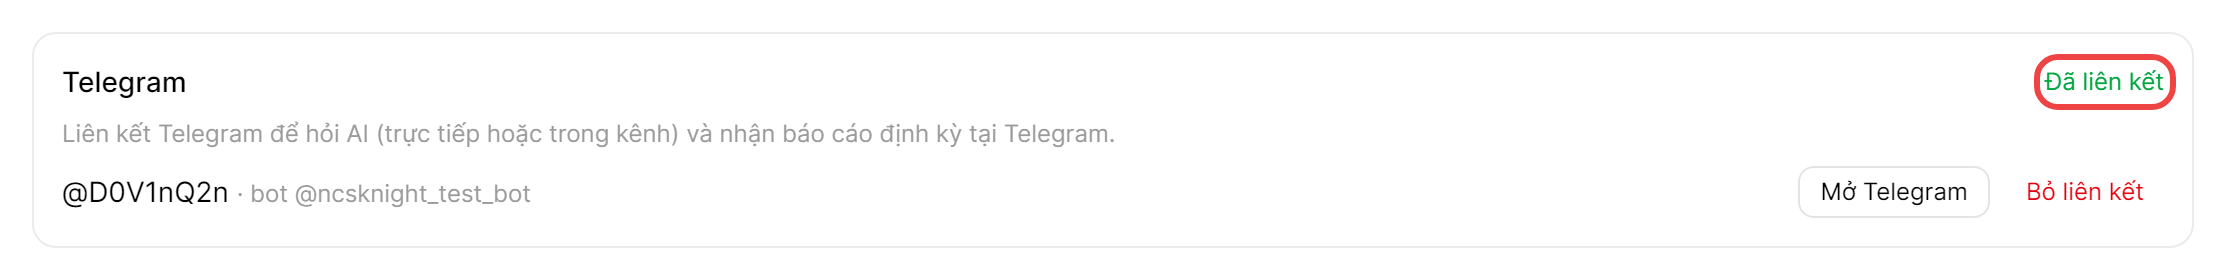
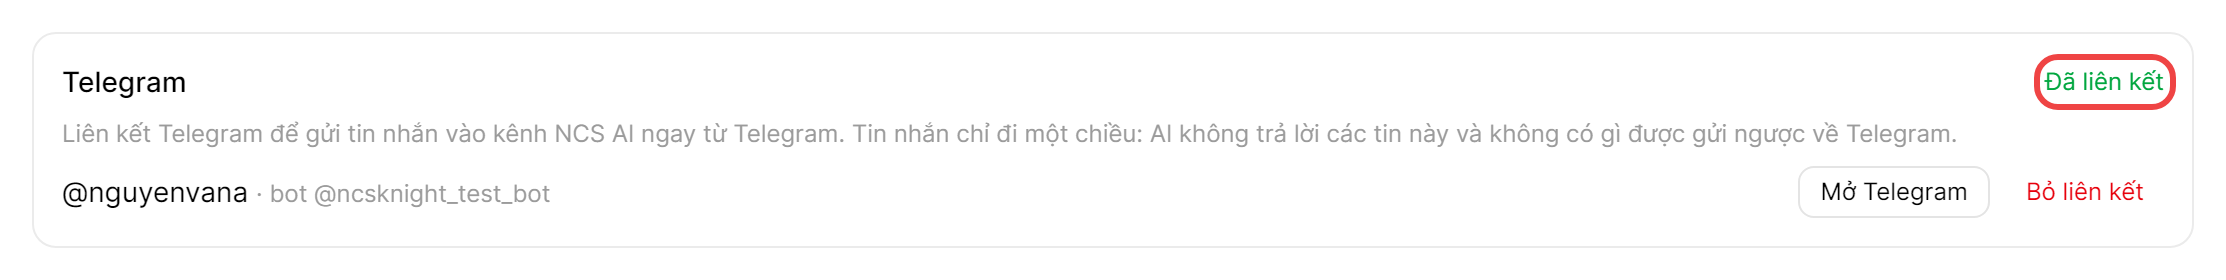
Update hướng dẫn

Changed region(s): [[0.124, 0.4286, 0.8989, 0.5143], [0.031, 0.6286, 0.248, 0.7429]]

diff --git a/src/lib/components/admin/Settings/Telegram.svelte b/src/lib/components/admin/Settings/Telegram.svelte
@@ -150,7 +150,6 @@
 					{$i18n.t('Linking needs email: pressing Start in the bot emails a 6-digit code to the account, entered on the web. Set up the email sender (monitor page → Reminder email) first.')}
 				</p>
 				<p class="text-xs text-gray-500">{$i18n.t('The chat history with the bot is deleted every day.')}</p>
-				<p class="text-xs text-gray-500">{$i18n.t('Linking Telegram groups is switched off for now.')}</p>
 			</AdminSettingSection>
 
 			<AdminSettingSection title={$i18n.t('Limits')}>

diff --git a/docs/help-center/anh-cu-telegram/README.md b/docs/help-center/anh-cu-telegram/README.md
@@ -1,0 +1,111 @@
+# Ảnh hướng dẫn Telegram cũ (sao lưu 27/11/2026)
+
+Ảnh và lời hướng dẫn của bot Telegram bản cũ (hỏi AI trong Telegram, nhận báo cáo định kỳ qua Telegram, liên kết không cần mã email).
+Đã gỡ khỏi trung tâm trợ giúp khi đổi sang: liên kết bằng mã OTP qua email, chỉ gửi tin một chiều vào kênh, tạm ngừng gửi báo cáo qua Telegram.
+Dùng lại khi mở lại các tính năng đó: chép ảnh về `static/help-center/images/` và thêm lại bước vào `static/help-center/articles.json`.
+
+## Liên kết Telegram với tài khoản (`telegram_link`)
+
+### `tgc-w2-lien-ket.png`
+
+- Bước: **Bấm Liên kết Telegram**
+- Chú thích: Ô Telegram trong Cài đặt → Tài khoản khi chưa liên kết
+- Lời bước cũ: Chọn mục Tài khoản, kéo xuống ô Telegram rồi bấm Liên kết Telegram. Không thấy ô Telegram: quản trị viên chưa bật bot Telegram, hoặc chưa cho tài khoản của bạn dùng Telegram.
+
+### `tgc-w3-mo-telegram.png`
+
+- Bước: **Bấm Mở Telegram**
+- Chú thích: Bấm Mở Telegram, cửa sổ chờ liên kết
+- Lời bước cũ: Hiện hướng dẫn và nút Mở Telegram. Link chỉ dùng một lần, trong 10 phút. Giữ nguyên cửa sổ NCS AI (đang hiện "Đang chờ liên kết…") cho tới khi liên kết xong.
+
+### `tgc-t1-start.png`
+
+- Bước: **Bấm Start trong chat với bot**
+- Chú thích: Bấm START ở cuối khung chat với bot
+- Lời bước cũ: Telegram mở cuộc chat với bot NCS AI. Bấm START (BẮT ĐẦU) ở cuối khung chat. Không thấy nút này hoặc bấm không có phản hồi: quay lại NCS AI, bấm Liên kết Telegram lần nữa để lấy link mới.
+
+### `tgc-t2-da-lien-ket.png`
+
+- Bước: **Kiểm tra đã liên kết**
+- Chú thích: Bot xác nhận đã liên kết và hiện bàn phím
+- Lời bước cũ: Bot trả lời "✅ Đã liên kết với <tên của bạn> (<email>)" và hiện bàn phím dưới ô nhập: Hỏi trực tiếp, Hỏi trong kênh, Cuộc trò chuyện mới, Cài đặt. Trên NCS AI hiện thông báo "Đã liên kết Telegram".
+
+### `tgc-w4-da-lien-ket.png`
+
+- Bước: **Xem hoặc bỏ liên kết**
+- Chú thích: Tài khoản đã liên kết Telegram
+- Lời bước cũ: Ô Telegram trong Cài đặt → Tài khoản ghi Đã liên kết cùng tên Telegram của bạn và tên bot. Mở Telegram để mở lại chat với bot. Bỏ liên kết khi không dùng Telegram đó nữa: bạn sẽ không hỏi AI và không nhận báo cáo qua Telegram. Liên kết một Telegram khác sẽ thay liên kết cũ.
+
+## Chat với AI qua Telegram (`telegram_chat`)
+
+### `tgc-t3-dang-tra-loi.png`
+
+- Bước: **Hỏi trực tiếp**
+- Chú thích: Bot đang trả lời, có nút Dừng
+- Lời bước cũ: Liên kết xong (xem bài "Liên kết Telegram với tài khoản"), gõ câu hỏi bất kỳ vào chat với bot, như chat riêng với AI trên web. Bot gửi ngay tin "💬 Trực tiếp · <model> ⏳ Đang trả lời…" rồi sửa dần thành câu trả lời. Bấm ⏹ Dừng để hủy. Mỗi lần bot trả lời một câu: gửi câu mới khi câu trước chưa xong, bot nhắc bạn đợi.
+
+### `tgc-t4-cau-tra-loi.png`
+
+- Bước: **Dùng các nút dưới câu trả lời**
+- Chú thích: Cuối câu trả lời có nút PDF, Word, Trả lời lại
+- Lời bước cũ: 📄 PDF / 📝 Word: nhận chính câu trả lời này thành file, không hỏi AI lại. 🔁 Trả lời lại: AI trả lời lại câu vừa hỏi. 🌐 Mở trên web (khi có): mở đúng cuộc trò chuyện trên {{name}}, tên là "Telegram · <câu hỏi đầu>". Câu trả lời quá dài thì cuối tin ghi "câu trả lời còn dài, xem tiếp trên web".
+
+### `tgc-t5-chon-kenh.png`
+
+- Bước: **Chọn kênh để hỏi**
+- Chú thích: Danh sách kênh để chọn
+- Lời bước cũ: Bấm 📁 Hỏi trong kênh (hoặc gõ /kenh). Bot hiện các kênh bạn được hỏi trên web: kênh dùng gần đây có ⭐ ở đầu, mỗi trang 6 kênh. Gõ /kenh <tên> để tìm, ví dụ /kenh bd2. Không thấy kênh: bạn không có quyền trong kênh đó, hoặc quản trị viên không cho hỏi kênh đó qua Telegram.
+
+### `tgc-t6-hoi-trong-kenh.png`
+
+- Bước: **Hỏi trong kênh**
+- Chú thích: Đang hỏi trong kênh, bàn phím theo kênh
+- Lời bước cũ: Bot báo "📁 Đang hỏi trong #<kênh>". Câu hỏi được đăng vào kênh dưới tên bạn và AI trả lời theo dữ liệu của kênh, giống gọi AI trong kênh trên web: thành viên kênh đều thấy. Bàn phím đổi theo kênh: 📊 Tiến độ tổng quan, ⏰ Việc quá hạn, 👤 Việc của tôi gửi câu hỏi soạn sẵn; 📄 Xuất báo cáo cho chọn PDF, Word hoặc Excel. Trả lời (reply) vào tin của bot để hỏi tiếp trong cùng luồng. 🔄 Đổi kênh để chọn kênh khác; ↩ Về hỏi trực tiếp (hoặc /truc_tiep) để quay lại chat riêng.
+
+### `tgc-t8-cai-dat.png`
+
+- Bước: **Cài đặt, đổi model, hủy liên kết**
+- Chú thích: Menu Cài đặt của bot
+- Lời bước cũ: Bấm ⚙ Cài đặt (hoặc /caidat) để xem tài khoản đang liên kết, model đang dùng và số lịch báo cáo gửi vào đây. 🤖 Đổi model (hoặc /model): chọn trong các model bạn được dùng trên web. 📬 Báo cáo nhận tại đây: các lịch báo cáo đang gửi vào Telegram này. ❓ Hướng dẫn: cách dùng tóm tắt. 🔓 Hủy liên kết: ngắt Telegram khỏi tài khoản, bot hỏi xác nhận trước.
+
+## Đặt lịch báo cáo tiến độ tự động (`reports`)
+
+### `tgr-b1-telegram-cua-toi.png`
+
+- Bước: **Chọn nơi nhận**
+- Chú thích: Gửi qua email cho chính mình và vào Telegram của tôi
+- Lời bước cũ: Ở mục 4. Gửi qua. Email: bật công tắc, tích Gửi cho tôi; thêm người nhận khác bằng cách gõ email rồi nhấn Enter (nếu quản trị viên giới hạn, chỉ thêm được thành viên các kênh trong báo cáo). Telegram: bật công tắc; Telegram của tôi được tích sẵn nếu bạn đã liên kết Telegram, xem bài "Nhận báo cáo qua Telegram". Đã bật Telegram thì phải tích ít nhất một Telegram, nếu không Xem trước và Lưu lịch sẽ báo lỗi "Telegram: chọn ít nhất một chat đã liên kết".
+
+## Nhận báo cáo qua Telegram (`reports_telegram`)
+
+### `tgr-b1-telegram-cua-toi.png`
+
+- Bước: **Bật gửi qua Telegram**
+- Chú thích: Telegram của tôi được tích sẵn khi bật Telegram
+- Lời bước cũ: Mở lịch báo cáo (tạo mới hoặc bấm vào lịch có sẵn). Ở mục 4. Gửi qua, bật công tắc Telegram. Đã liên kết Telegram với tài khoản thì dòng "Telegram của tôi: @<tên>" đứng đầu và được tích sẵn. Không thấy ô Telegram: quản trị viên chưa bật gửi báo cáo qua Telegram.
+
+### `tgr-b2-chua-lien-ket.png`
+
+- Bước: **Chưa liên kết: bấm Liên kết Telegram**
+- Chú thích: Chưa liên kết Telegram: bấm Liên kết Telegram
+- Lời bước cũ: Ô Telegram ghi "Chưa liên kết chat Telegram nào.": bấm Liên kết Telegram, rồi Mở Telegram và bấm Start trong chat với bot, như bài "Liên kết Telegram với tài khoản". Liên kết xong, Telegram của tôi tự hiện và được tích, không cần tải lại trang.
+
+## Cấu hình bot Telegram (`admin_telegram`)
+
+### `tga-1-bot.png`
+
+- Bước: **Nhập token và kiểm tra**
+- Chú thích: Bot token, nút Kiểm tra, trạng thái và các tính năng
+- Lời bước cũ: Mở Cài đặt (ảnh đại diện → Cài đặt), ở phần Quản trị chọn Telegram. Dán token vào ô Bot token, bấm Kiểm tra: hiện "Bot: @<tên bot>" là đúng, rồi bấm Lưu. Dòng trạng thái cho biết bot có đang đọc tin không và lần cuối đọc được. Báo có ứng dụng khác đang đọc bot (409 Conflict): một môi trường khác đang dùng chung token, hãy đổi sang bot riêng.
+
+### `tga-2-gioi-han.png`
+
+- Bước: **Đặt giới hạn và model**
+- Chú thích: Giới hạn và model mặc định cho Telegram
+- Lời bước cũ: Số tin mỗi người mỗi phút (mặc định 10). Số câu hỏi trả lời cùng lúc của cả hệ thống (mặc định 5): câu vượt quá phải xếp hàng. Tự sang cuộc trò chuyện mới sau bao nhiêu giờ không hỏi (mặc định 4). Thời gian chờ câu trả lời tối đa (mặc định 30 phút): tóm tắt file lớn có thể mất vài phút, nên đừng đặt quá thấp. Model mặc định cho Telegram: để trống thì dùng model mặc định của người dùng.
+
+### `tga-3-da-lien-ket.png`
+
+- Bước: **Chặn kênh và quản lý liên kết**
+- Chú thích: Danh sách tài khoản đã liên kết (dữ liệu minh họa)
+- Lời bước cũ: Kênh không cho hỏi qua Telegram: tìm và tích các kênh không được hỏi từ bot. Bảng Tài khoản Telegram đã liên kết cho biết ai đã liên kết, khi nào và lần dùng cuối; bấm Bỏ liên kết để gỡ, ví dụ khi người đó nghỉ việc. Tài khoản bị khóa sẽ bị bot từ chối ngay ở tin kế tiếp.

diff --git a/docs/help-center/ANH-CAN-CHUP-TELEGRAM.md b/docs/help-center/ANH-CAN-CHUP-TELEGRAM.md
@@ -1,0 +1,22 @@
+# Ảnh Telegram còn thiếu trong trung tâm trợ giúp (cập nhật 27/11/2026)
+
+Các bước dưới đây đang để trống ảnh vì cần chụp trong ứng dụng Telegram. Chụp xong, đặt đúng tên file vào
+`static/help-center/images/` rồi thêm `image` + `caption` cho bước tương ứng trong `static/help-center/articles.json`.
+
+Ảnh cũ (bot bản trước: hỏi AI, nhận báo cáo qua Telegram) đã sao lưu ở `docs/help-center/anh-cu-telegram/`.
+
+Bài "Liên kết Telegram với tài khoản" đã đủ ảnh.
+
+## Bài "Gửi tin nhắn vào kênh từ Telegram" (`telegram_chat`)
+
+| Bước | Ảnh cần chụp | Tên file |
+|---|---|---|
+| Bot chỉ chuyển tin nhắn vào kênh | Gõ một tin khi chưa chọn kênh: bot nhắc chọn kênh trước | `tgc-t9-chua-chon-kenh.png` |
+| Gửi file hoặc ảnh | Gửi một file kèm chú thích và bot báo đã gửi | `tgc-t7-gui-file.png` |
+| Cài đặt, hủy liên kết | Menu ⚙ Cài đặt của bot (tài khoản, kênh đang gửi, các nút) | `tgc-t8-cai-dat.png` |
+
+## Bài "Cấu hình bot Telegram" (`admin_telegram`)
+
+| Bước | Ảnh cần chụp | Tên file |
+|---|---|---|
+| Tạo bot và lấy token | Chat với @BotFather sau lệnh /newbot, che token | `tga-0-botfather.png` |
